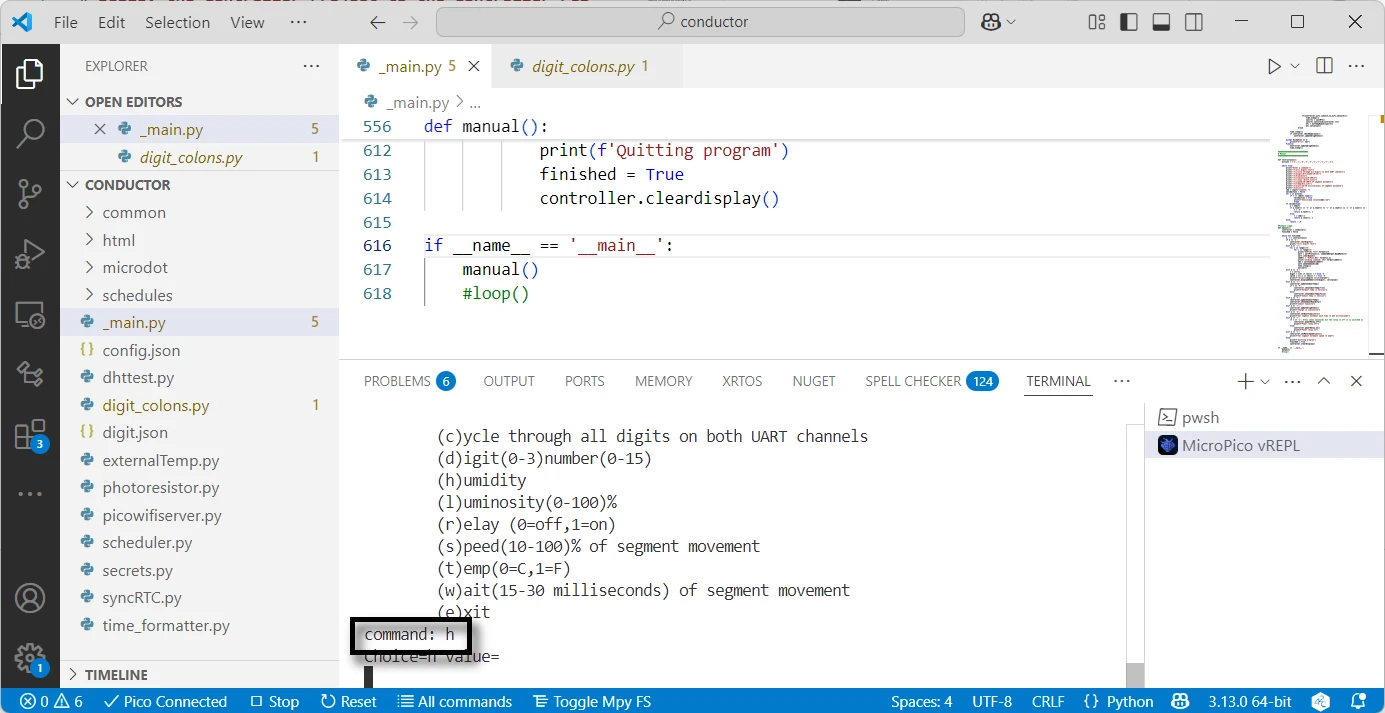
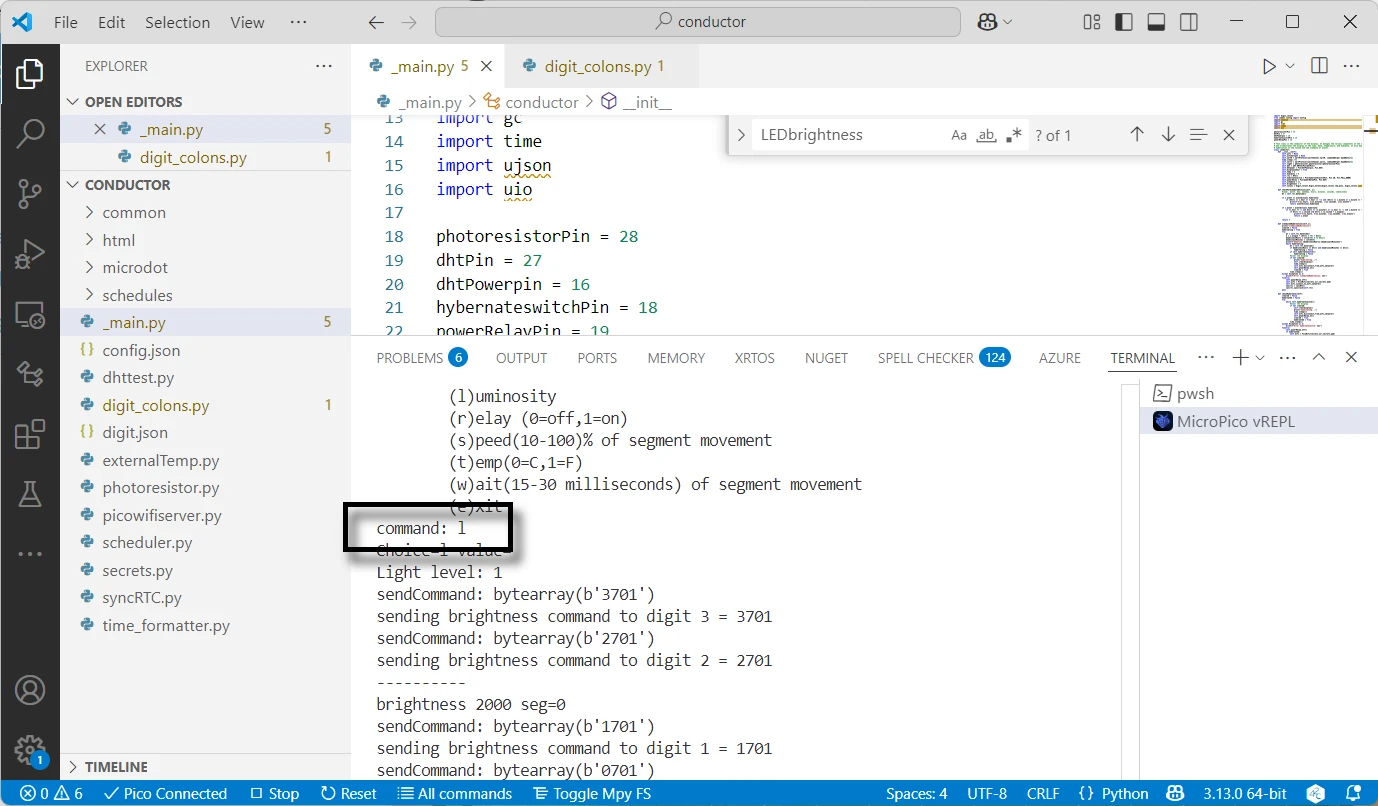
completed display face pcbs and test doc

diff --git a/micropython/pico/conductor/uart_command.py b/micropython/pico/conductor/uart_command.py
@@ -528,7 +528,7 @@ def instructions():
         print("\t(c)ycle through all digits on both UART channels")
         print("\t(d)igit(0-3)number(0-15)")
         print("\t(h)umidity")
-        print("\t(l)uminosity(0-100)%")
+        print("\t(l)uminosity")
         print("\t(r)elay (0=off,1=on)")
         print("\t(s)peed(10-100)% of segment movement")
         print("\t(t)emp(0=C,1=F)")

diff --git a/docs/assembly/displayfacepcbs.md b/docs/assembly/displayfacepcbs.md
@@ -33,12 +33,16 @@ This guide details assembling the PCBs onto the display face, and includes integ
 1. From Visual Studio Code on your computer, type the `(a)ll digits test` in the command terminal to check the UART connections across the digits. See the video below to verify the segments animate from digit 3 to digit 0.
 ![displayfacepcbtest-2](../img/displayfacepcbs/displayfacepcbtest-2.webp)
 ![alldigitstest](../img/displayfacepcbs/alldigitstest.webp)
-1.
+1. From the command terminal pane, use the `(r)elay (0=off,1=on)` command by typing `r0` (off) then `r1` (on) to check the relay functionality. See the video below with the LEDs on the buck converters turning on and off.
 ![displayfacepcbtest-3](../img/displayfacepcbs/displayfacepcbtest-3.webp)
 ![relaytest](../img/displayfacepcbs/relaytest.webp)
-1.
+1. From the command terminal pane, use the `(t)emp(0=C,1=F)` command by typing `t0` or `t1` to display the temperature (respectively) in celius or fehrenheit. You'll need to tip the display up on one side to view the front of the display as shown in the video below.
 ![displayfacepcbtest-4](../img/displayfacepcbs/displayfacepcbtest-4.webp)
 ![temperaturetest](../img/displayfacepcbs/temperaturetest.webp)
-1.
+1. From the command terminal pane, use the `(l)uninosity` command while shielding the LDR with your hand (or tuning off the light in your room). You won't see any command output, only a change in the brightness of the display. Should the LED colons be brighter or dimmer than the digit LEDs, then be sure to change the `LEDbrightnessFactor` setting found in the `digit_colons.py` file. Presently the LED colons are set to about 1/3rd the power as the digit LEDs. Should you change the controller's `LEDbrightnessFactor`, then be sure to upload the changes to the controller's Raspberry Pi Pico W 2040.
 ![displayfacepcbtest-5](../img/displayfacepcbs/displayfacepcbtest-5.webp)
-![humidtest](../img/displayfacepcbs/humidtest.webp)
+![brightnesstest](../img/displayfacepcbs/brightnesstest.webp)
+1. **Rename `_main.py` to `main.py`**. Then upload the project to the controller's Raspberry Pi Pico W 2040.
+
+!!! warning
+    Forgetting to upload the renamed `main.py` file to the controller's Raspberry Pi Pico W 2040 will cause the Kinetic Display to be unresponsive.
